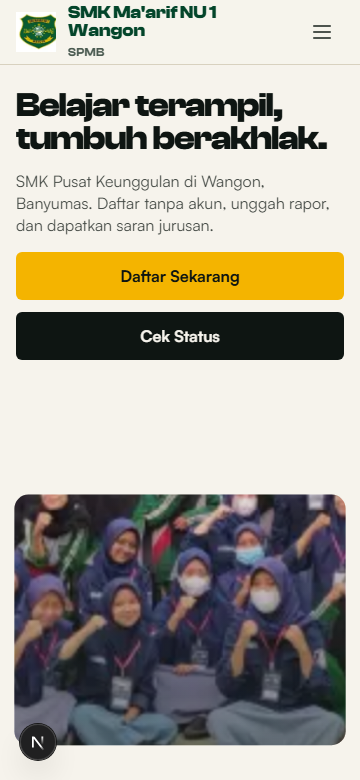
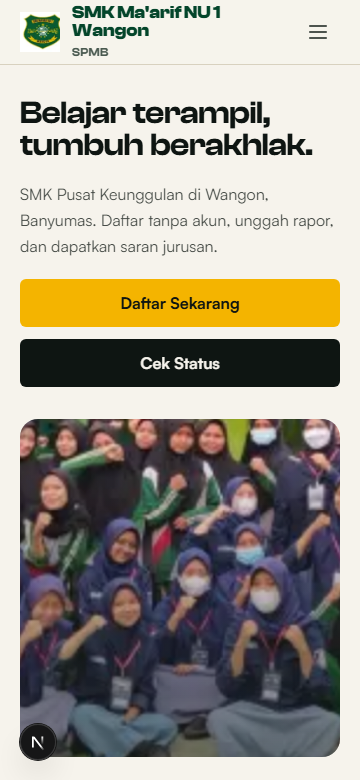
fix(landing): margin lebih lega seragam, hero dan foto diperkecil, animasi foto simetris
Satu kelas .wadah (maks 84 rem, bantalan 1,25/2/3,5 rem) dipakai navbar, footer, landing, jurusan, dan berita. Hero: judul lebih kecil, foto tepat di bawah teks dan sejajar wadah (tinggi teks diukur ResizeObserver), clip-path awal 4 sisi eksplisit agar animasi mengembang simetris, teks memudar sebelum foto membesar. PRD 1.3 butir 22-23.

diff --git a/src/features/landing/hero.tsx b/src/features/landing/hero.tsx
@@ -2,7 +2,7 @@
 
 import Image from "next/image";
 import Link from "next/link";
-import { useRef } from "react";
+import { useEffect, useRef } from "react";
 import { Button } from "@/components/ui/button";
 import { useGsapPublik } from "@/components/motion/use-gsap";
 import { Magnetik } from "./magnetik";
@@ -10,6 +10,23 @@ import { Magnetik } from "./magnetik";
 // Copy hero: usulan awal, final dari sekolah (keputusan S14).
 export function Hero({ tahunAjaran }: { tahunAjaran: string | null }) {
   const akar = useRef<HTMLElement>(null);
+
+  // Foto dimulai tepat di bawah blok teks (jarak tetap), berapa pun tinggi layar dan panjang judul.
+  // Diukur lewat ResizeObserver dan ditulis ke variabel CSS, tanpa state React.
+  useEffect(() => {
+    const el = akar.current;
+    const blok = el?.querySelector<HTMLElement>("[data-teks]");
+    if (!el || !blok) return;
+    const ukur = () => {
+      const bawah = Math.max(...Array.from(blok.children).map((c) => (c as HTMLElement).offsetTop + (c as HTMLElement).offsetHeight));
+      el.style.setProperty("--teks", `${bawah}px`);
+    };
+    ukur();
+    const ro = new ResizeObserver(ukur);
+    ro.observe(blok);
+    Array.from(blok.children).forEach((c) => ro.observe(c));
+    return () => ro.disconnect();
+  }, []);
 
   useGsapPublik(akar, {
     animasi: ({ gsap, SplitText, ScrollTrigger, akar: el }) => {
@@ -26,14 +43,24 @@ export function Hero({ tahunAjaran }: { tahunAjaran: string | null }) {
         .from("[data-masuk]", { opacity: 0, y: 18, duration: 0.6, ease: "power3.out", stagger: 0.08 }, "-=0.55")
         .from(foto, { yPercent: 14, duration: 1.1, ease: "expo.out" }, "-=0.9");
 
+      // Nilai awal clip-path ditulis eksplisit 4 sisi (px). Jangan mengandalkan nilai computed CSS: browser
+      // menyederhanakan inset(a b c b) menjadi 3 nilai sehingga GSAP salah menginterpolasi kiri dan kanan.
+      const awal = () => {
+        const besar = window.innerWidth >= 1024;
+        const atas = parseFloat(el.style.getPropertyValue("--teks") || "0") + (besar ? 40 : 32);
+        const blok = el.querySelector<HTMLElement>("[data-teks]");
+        const samping = blok ? blok.getBoundingClientRect().left + parseFloat(getComputedStyle(blok).paddingLeft) : 20;
+        return `inset(${atas}px ${samping}px ${besar ? 40 : 24}px ${samping}px round ${besar ? 22 : 18}px)`;
+      };
+
       // Gulir: foto mengembang dari banner menjadi layar penuh, teks terangkat dan memudar.
       const tl = gsap.timeline({
         defaults: { ease: "none" },
-        scrollTrigger: { trigger: el, start: "top 64px", end: "+=110%", pin: true, scrub: 0.6 },
+        scrollTrigger: { trigger: el, start: "top 64px", end: "+=110%", pin: true, scrub: 0.6, invalidateOnRefresh: true },
       });
-      tl.to(foto, { clipPath: "inset(0% 0% 0% 0% round 0px)" }, 0)
-        .fromTo(gambar, { scale: 1.18 }, { scale: 1 }, 0)
-        .to(teks, { yPercent: -18, opacity: 0, duration: 0.38, ease: "power1.in" }, 0);
+      tl.fromTo(foto, { clipPath: awal }, { clipPath: "inset(0px 0px 0px 0px round 0px)", duration: 1 }, 0)
+        .fromTo(gambar, { scale: 1.18 }, { scale: 1, duration: 1 }, 0)
+        .to(teks, { yPercent: -14, opacity: 0, duration: 0.2, ease: "power1.in" }, 0);
 
       return () => {
         split?.revert();
@@ -47,7 +74,7 @@ export function Hero({ tahunAjaran }: { tahunAjaran: string | null }) {
       {/* Foto sekolah warna asli. Dipotong jadi banner di bawah, mengembang saat digulir. */}
       <div
         data-foto-layer
-        className="absolute inset-0 [clip-path:inset(60%_4%_5%_4%_round_14px)] lg:[clip-path:inset(50%_3%_5%_3%_round_14px)]"
+        className="absolute inset-0 [--m:1.25rem] [clip-path:inset(calc(var(--teks,20rem)+2rem)_var(--m)_1.5rem_var(--m)_round_18px)] sm:[--m:2rem] lg:[--m:max(3.5rem,calc((100vw-84rem)/2+3.5rem))] lg:[clip-path:inset(calc(var(--teks,20rem)+2.5rem)_var(--m)_2.5rem_var(--m)_round_22px)]"
       >
         <div data-foto-gambar className="absolute inset-0 will-change-transform">
           <Image
@@ -62,17 +89,17 @@ export function Hero({ tahunAjaran }: { tahunAjaran: string | null }) {
         <div aria-hidden className="absolute inset-0 bg-gradient-to-t from-ink/55 via-transparent to-transparent" />
       </div>
 
-      <div data-teks className="relative z-10 mx-auto flex h-full max-w-[100rem] flex-col px-4 pt-6 sm:px-6 lg:px-10 lg:pt-8">
+      <div data-teks className="wadah relative z-10 flex h-full flex-col pt-8 lg:pt-12">
         <h1
           data-judul
-          className="max-w-[16ch] text-[clamp(2.1rem,5vw,4.5rem)] font-bold leading-[0.97] tracking-[-0.03em] text-ink lg:max-w-none"
+          className="max-w-[16ch] text-[clamp(2rem,4.4vw,3.9rem)] font-semibold leading-[1] tracking-[-0.02em] text-ink lg:max-w-none"
         >
           Belajar terampil,
           <br className="hidden sm:block" /> tumbuh berakhlak.
         </h1>
 
-        <div className="mt-4 flex flex-col gap-4 sm:mt-5 lg:mt-6 lg:flex-row lg:items-end lg:justify-between">
-          <p data-masuk className="max-w-[38ch] text-base leading-snug text-ink/75 sm:text-lg">
+        <div className="mt-5 flex flex-col gap-5 sm:mt-6 lg:mt-8 lg:flex-row lg:items-end lg:justify-between">
+          <p data-masuk className="max-w-[40ch] text-base leading-relaxed text-ink/75 sm:text-lg">
             SMK Pusat Keunggulan di Wangon, Banyumas. Daftar tanpa akun, unggah rapor, dan dapatkan saran jurusan.
           </p>
           <div data-masuk className="flex flex-col gap-3 sm:flex-row">
@@ -99,7 +126,7 @@ export function Hero({ tahunAjaran }: { tahunAjaran: string | null }) {
         )}
       </div>
 
-      <div className="pointer-events-none absolute bottom-6 right-6 z-10 hidden items-center gap-3 rounded-kartu bg-permukaan/95 px-3 py-2.5 shadow-kartu lg:flex">
+      <div className="pointer-events-none absolute bottom-[3.5rem] right-[max(4.5rem,calc((100vw-84rem)/2+4.5rem))] z-10 hidden items-center gap-3 rounded-kartu bg-permukaan/95 px-3 py-2.5 shadow-kartu lg:flex">
         <Image src="/images/sekolah/lambang.png" alt="" width={40} height={40} className="size-10 object-contain" />
         <p className="text-sm font-bold leading-tight text-ink">
           SMK Pusat

diff --git a/src/app/(publik)/jurusan/[kode]/page.tsx b/src/app/(publik)/jurusan/[kode]/page.tsx
@@ -37,7 +37,7 @@ export default async function DetailJurusan({ params }: PageProps<"/jurusan/[kod
   return (
     <article>
       <header className={cn("py-12 lg:py-20", t.latar, t.teks)}>
-        <div className="mx-auto grid max-w-[100rem] items-end gap-8 px-4 sm:px-6 lg:grid-cols-[1.2fr_1fr] lg:gap-16 lg:px-10">
+        <div className="wadah grid items-end gap-8 lg:grid-cols-[1.2fr_1fr] lg:gap-16">
           <div>
             <Link href="/jurusan" className="inline-flex min-h-11 items-center text-sm font-bold underline underline-offset-4">
               Semua program keahlian
@@ -56,7 +56,7 @@ export default async function DetailJurusan({ params }: PageProps<"/jurusan/[kod
         </div>
       </header>
 
-      <div className="mx-auto grid max-w-[100rem] gap-12 px-4 py-12 sm:px-6 lg:grid-cols-3 lg:gap-16 lg:px-10 lg:py-20">
+      <div className="wadah grid gap-12 py-12 lg:grid-cols-3 lg:gap-16 lg:py-20">
         <Reveal className="rounded-kartu border border-garis bg-permukaan p-6 lg:p-8">
           <h2 className="text-2xl font-bold text-ink">Daya tampung</h2>
           <dl className="mt-5 grid grid-cols-3 gap-3 text-center">
@@ -119,7 +119,7 @@ export default async function DetailJurusan({ params }: PageProps<"/jurusan/[kod
         </Reveal>
       </div>
 
-      <div className="mx-auto max-w-[100rem] px-4 pb-16 sm:px-6 lg:px-10 lg:pb-24">
+      <div className="wadah pb-16 lg:pb-24">
         <div className="flex flex-col items-start justify-between gap-6 rounded-kartu bg-ink p-7 text-kertas sm:p-10 lg:flex-row lg:items-center">
           <p className="max-w-[28ch] font-display text-3xl font-bold leading-tight lg:text-4xl">
             Tertarik dengan {j.kode}? Daftar dan lihat kecocokan nilai rapor Anda.

diff --git a/src/features/landing/program-keahlian.tsx b/src/features/landing/program-keahlian.tsx
@@ -141,7 +141,7 @@ export function ProgramKeahlian({ jurusan }: { jurusan: JurusanLanding[] }) {
       aria-labelledby="judul-jurusan"
       className="overflow-hidden bg-latar py-16 lg:flex lg:h-[calc(100dvh-4rem)] lg:flex-col lg:justify-center lg:py-0"
     >
-      <div className="mx-auto w-full max-w-[100rem] px-4 sm:px-6 lg:px-10">
+      <div className="wadah w-full">
         <h2
           id="judul-jurusan"
           className="max-w-[18ch] text-[clamp(1.9rem,3.8vw,3.5rem)] font-bold leading-[0.98] tracking-[-0.015em] text-ink"
@@ -150,14 +150,16 @@ export function ProgramKeahlian({ jurusan }: { jurusan: JurusanLanding[] }) {
         </h2>
       </div>
 
-      <div data-jalur className="mt-8 flex flex-col gap-5 px-4 sm:px-6 lg:mt-10 lg:w-max lg:flex-row lg:gap-8 lg:px-10">
+      <div data-jalur className="sejajar-wadah mt-8 flex flex-col gap-5 lg:mt-10 lg:w-max lg:flex-row lg:gap-8">
         {jurusan.map((j) => (
           <Panel key={j.kode} j={j} />
         ))}
       </div>
 
-      <div aria-hidden className="mx-4 mt-8 hidden h-1 overflow-hidden rounded-full bg-ink/10 sm:mx-6 lg:mx-10 lg:block">
-        <div data-progres className="h-full origin-left scale-x-0 bg-ink" />
+      <div aria-hidden className="wadah mt-8 hidden lg:block">
+        <div className="h-1 overflow-hidden rounded-full bg-ink/10">
+          <div data-progres className="h-full origin-left scale-x-0 bg-ink" />
+        </div>
       </div>
     </section>
   );

diff --git a/src/styles/globals.css b/src/styles/globals.css
@@ -235,3 +235,40 @@
   padding-left: 1em;
   font-style: italic;
 }
+
+/*
+ * Lebar konten situs publik. Satu aturan untuk semua bagian supaya margin kiri-kanan seragam dan lega:
+ * konten maksimal 84 rem, bantalan 1,25 rem (HP), 2 rem (tablet), 3,5 rem (laptop ke atas).
+ * Ditulis sebagai kelas CSS biasa (bukan @utility) agar pasti terkompilasi di Tailwind v4 + Turbopack.
+ */
+@layer components {
+  .wadah {
+    margin-inline: auto;
+    width: 100%;
+    max-width: 84rem;
+    padding-inline: 1.25rem;
+  }
+
+  /* Jarak tepi layar ke tepi konten .wadah, untuk elemen yang harus sejajar dengannya tetapi berada di luarnya. */
+  .sejajar-wadah {
+    padding-inline: max(1.25rem, calc((100vw - 84rem) / 2 + 1.25rem));
+  }
+
+  @media (min-width: 40rem) {
+    .wadah {
+      padding-inline: 2rem;
+    }
+    .sejajar-wadah {
+      padding-inline: max(2rem, calc((100vw - 84rem) / 2 + 2rem));
+    }
+  }
+
+  @media (min-width: 64rem) {
+    .wadah {
+      padding-inline: 3.5rem;
+    }
+    .sejajar-wadah {
+      padding-inline: max(3.5rem, calc((100vw - 84rem) / 2 + 3.5rem));
+    }
+  }
+}

diff --git a/src/components/layout/footer.tsx b/src/components/layout/footer.tsx
@@ -10,7 +10,7 @@ const tautanCepat: Array<[string, string]> = [
 export function Footer() {
   return (
     <footer className="mt-auto bg-ink text-kertas">
-      <div className="mx-auto grid max-w-[100rem] gap-10 px-4 py-12 lg:grid-cols-[1.4fr_1fr_1fr] lg:px-8">
+      <div className="wadah grid gap-10 py-12 lg:grid-cols-[1.4fr_1fr_1fr]">
         <div>
           <p className="text-sm font-semibold uppercase tracking-wide text-kertas/70">
             Lembaga Pendidikan Ma&apos;arif NU PCNU Kab. Banyumas
@@ -52,7 +52,7 @@ export function Footer() {
         </div>
       </div>
       <div className="border-t border-kertas/15">
-        <div className="mx-auto flex max-w-[100rem] items-center justify-between px-4 py-4 text-sm text-kertas/70 lg:px-8">
+        <div className="wadah flex items-center justify-between py-4 text-sm text-kertas/70">
           <p>SPMB SMK Ma&apos;arif NU 1 Wangon</p>
           <Link href="/admin/login" className="inline-block min-h-11 py-2.5 underline-offset-2 hover:underline">
             Masuk panitia

diff --git a/src/components/layout/navbar.tsx b/src/components/layout/navbar.tsx
@@ -27,7 +27,7 @@ export function Navbar() {
 
   return (
     <header className="sticky top-0 z-30 border-b border-garis bg-latar/95 backdrop-blur-sm">
-      <div className="mx-auto flex h-16 max-w-[100rem] items-center justify-between gap-4 px-4 sm:px-6 lg:px-10">
+      <div className="wadah flex h-16 items-center justify-between gap-4">
         <Link href="/" className="flex items-center gap-3 font-display text-lg font-extrabold leading-none text-primer-tua">
           <Image src="/images/sekolah/lambang.png" alt="" width={40} height={40} className="size-10 object-contain" priority />
           <span>

diff --git a/src/features/landing/pernyataan.tsx b/src/features/landing/pernyataan.tsx
@@ -28,7 +28,7 @@ export function Pernyataan() {
 
   return (
     <section ref={akar} aria-label="Tentang sekolah" className="bg-ink py-20 text-kertas lg:py-28">
-      <div className="mx-auto max-w-[100rem] px-4 sm:px-6 lg:px-10">
+      <div className="wadah ">
         <p
           data-kalimat
           className="max-w-[26ch] font-display text-[clamp(1.5rem,3.2vw,2.9rem)] font-semibold leading-[1.08] tracking-[-0.012em] sm:max-w-[30ch] lg:max-w-[34ch]"

diff --git a/src/features/landing/faq-landing.tsx b/src/features/landing/faq-landing.tsx
@@ -42,7 +42,7 @@ export function FaqLanding({ faq }: { faq: FaqData[] }) {
 
   return (
     <section ref={akar} id="faq" aria-labelledby="judul-faq" className="bg-latar py-16 lg:py-24">
-      <div className="mx-auto grid max-w-[100rem] gap-12 px-4 sm:px-6 lg:grid-cols-[0.85fr_1.15fr] lg:gap-24 lg:px-10">
+      <div className="wadah grid gap-12 lg:grid-cols-[0.85fr_1.15fr] lg:gap-24">
         <h2
           id="judul-faq"
           data-judul-faq

diff --git a/src/features/landing/saran-jurusan.tsx b/src/features/landing/saran-jurusan.tsx
@@ -61,7 +61,7 @@ export function SaranJurusan() {
 
   return (
     <section ref={akar} aria-labelledby="judul-saran" className="bg-mint py-16 text-ink lg:py-24">
-      <div className="mx-auto grid max-w-[100rem] items-center gap-12 px-4 sm:px-6 lg:grid-cols-[1.05fr_1fr] lg:gap-24 lg:px-10">
+      <div className="wadah grid items-center gap-12 lg:grid-cols-[1.05fr_1fr] lg:gap-24">
         <div>
           <h2
             id="judul-saran"

diff --git a/src/app/(publik)/berita/page.tsx b/src/app/(publik)/berita/page.tsx
@@ -25,7 +25,7 @@ export default async function HalamanBerita() {
   const { berita, agenda } = await muat();
 
   return (
-    <div className="mx-auto max-w-[100rem] px-4 py-12 sm:px-6 lg:px-10 lg:py-20">
+    <div className="wadah py-12 lg:py-20">
       <h1 className="max-w-[16ch] text-[clamp(2.25rem,5vw,3.75rem)] font-semibold leading-[1] tracking-[-0.02em] text-ink">
         Berita dan agenda
       </h1>

diff --git a/src/app/(publik)/jurusan/page.tsx b/src/app/(publik)/jurusan/page.tsx
@@ -24,7 +24,7 @@ export default async function HalamanJurusan() {
   const jurusan = await muat();
 
   return (
-    <div className="mx-auto max-w-[100rem] px-4 py-12 sm:px-6 lg:px-10 lg:py-20">
+    <div className="wadah py-12 lg:py-20">
       <h1 className="max-w-[16ch] text-[clamp(2.25rem,5vw,3.75rem)] font-semibold leading-[1] tracking-[-0.02em] text-ink">
         Program keahlian
       </h1>

diff --git a/src/features/landing/penutup.tsx b/src/features/landing/penutup.tsx
@@ -48,7 +48,7 @@ export function Penutup() {
         aria-hidden
         className="pointer-events-none absolute -right-40 top-1/2 size-[34rem] -translate-y-1/2 object-contain opacity-[0.09]"
       />
-      <div className="relative mx-auto max-w-[100rem] px-4 sm:px-6 lg:px-10">
+      <div className="wadah relative">
         <h2
           id="judul-penutup"
           data-judul-penutup
